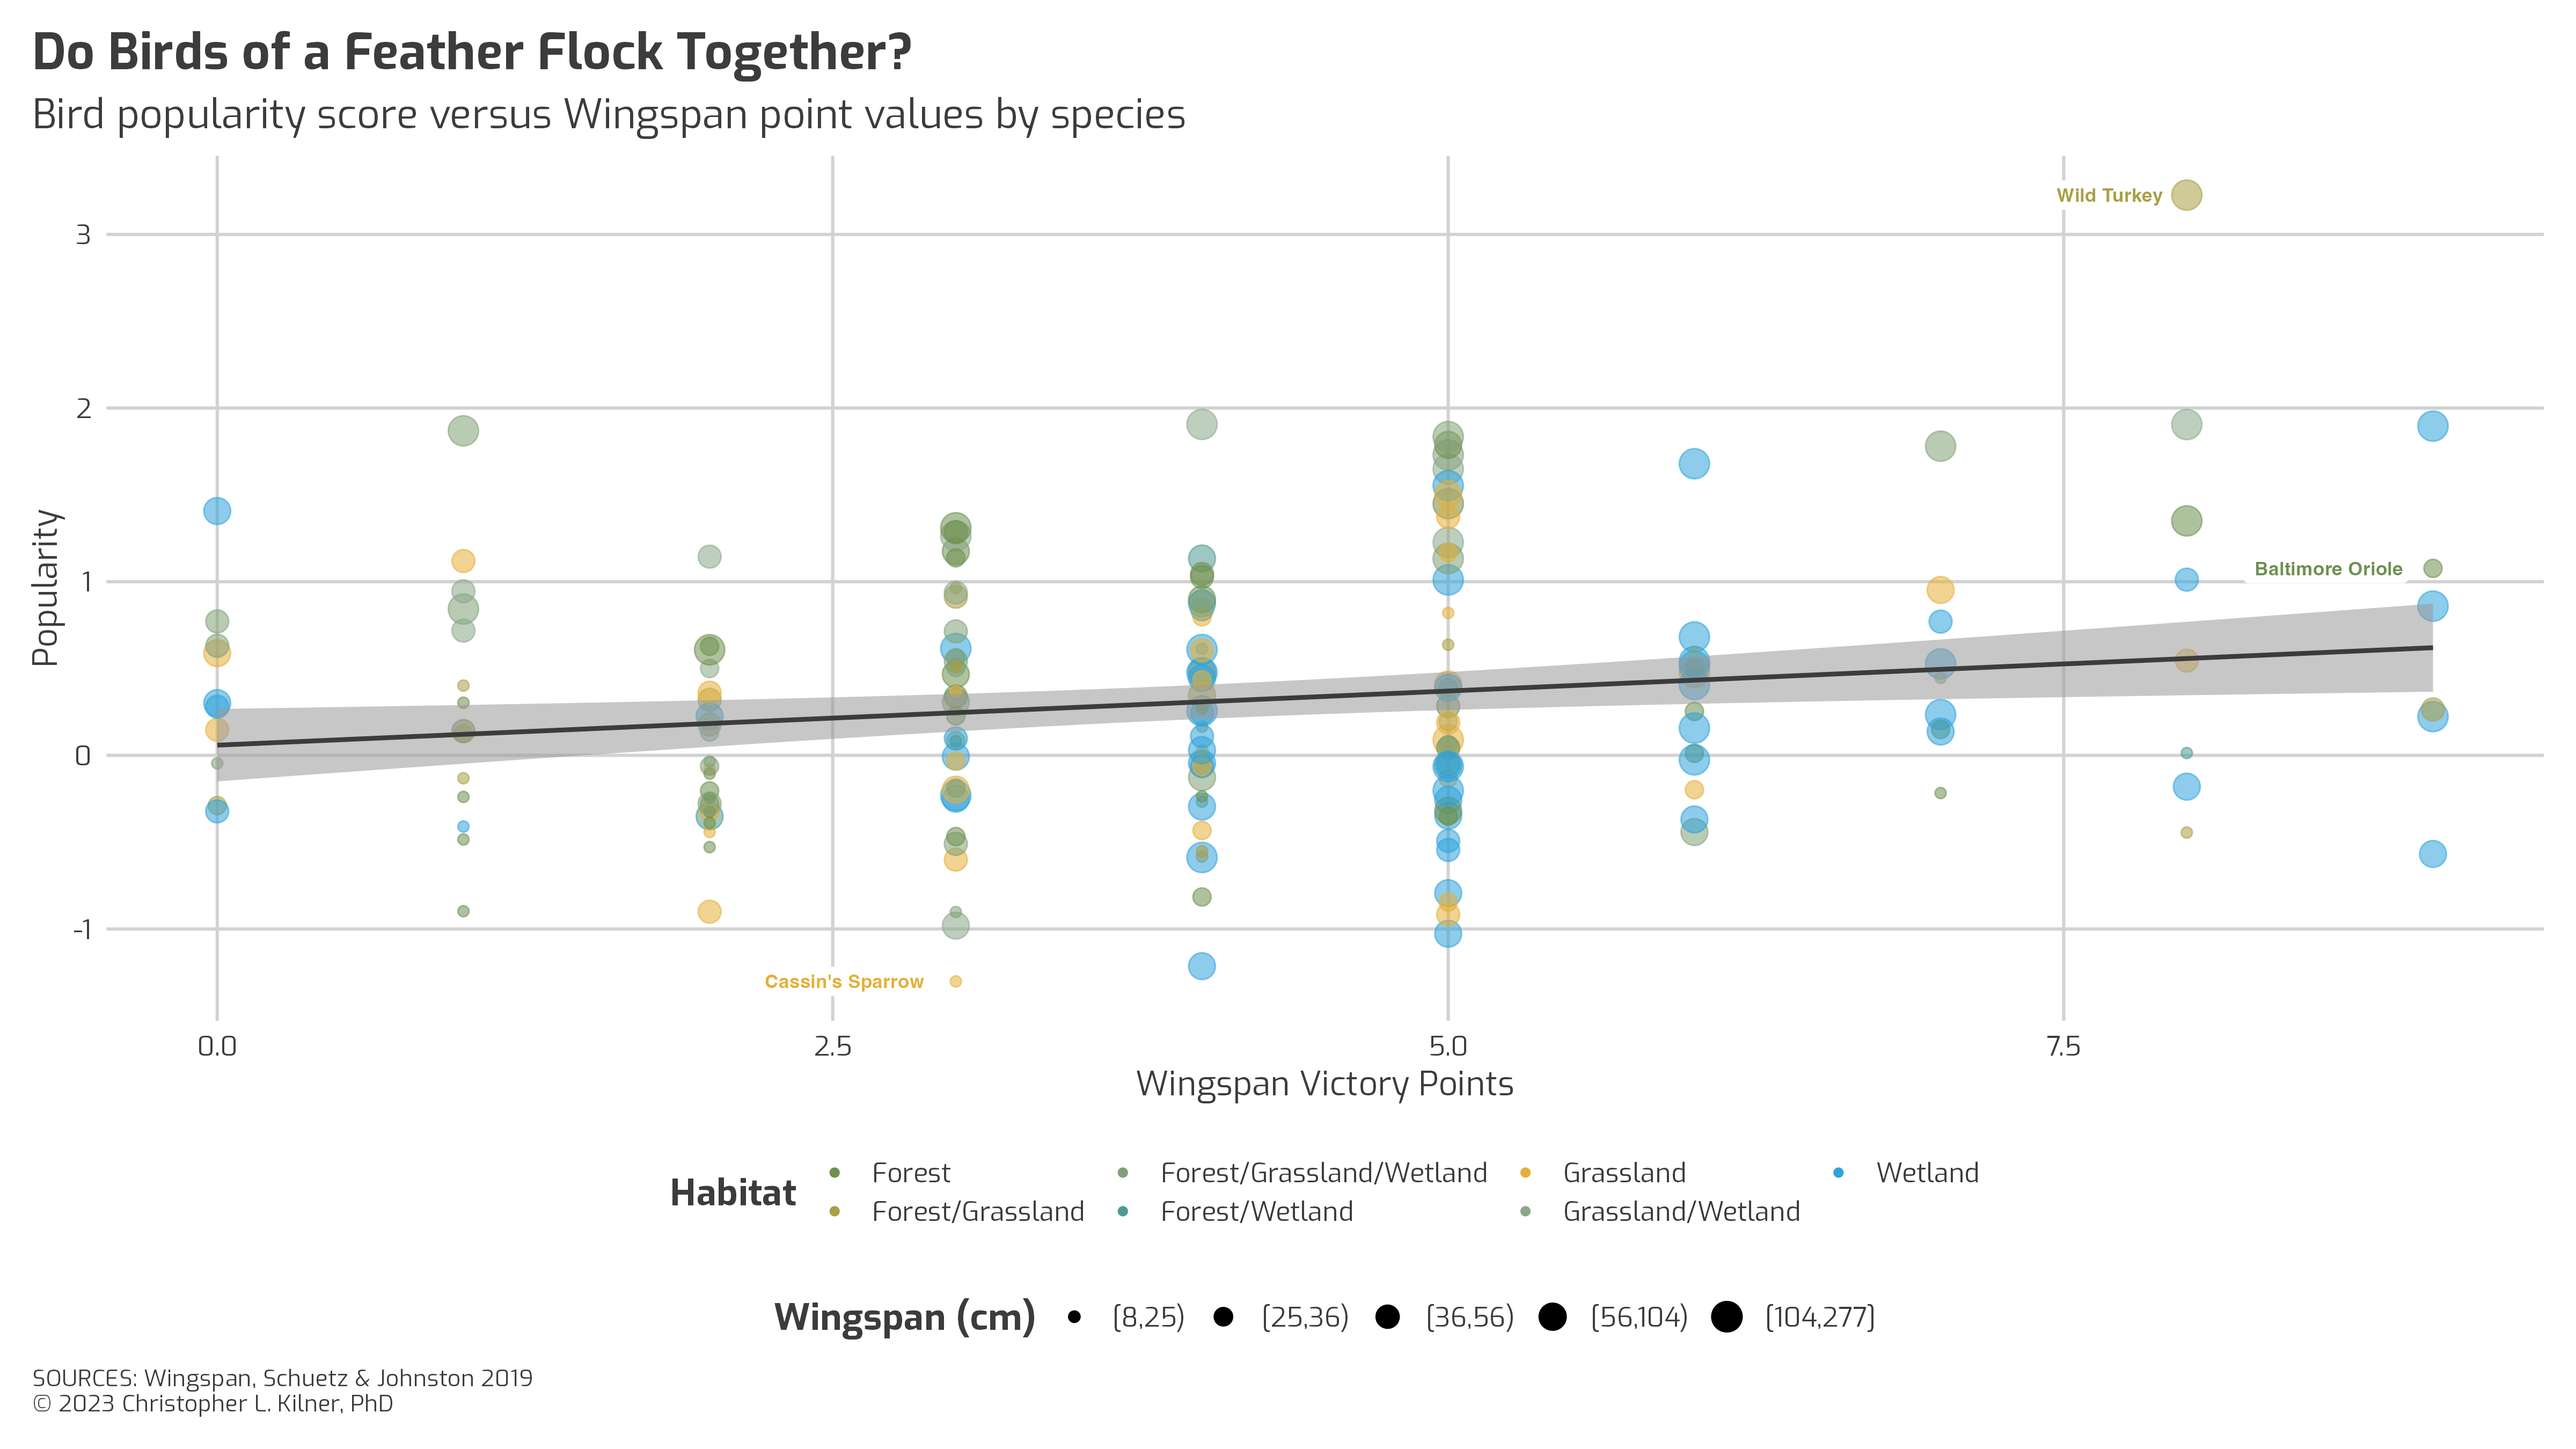
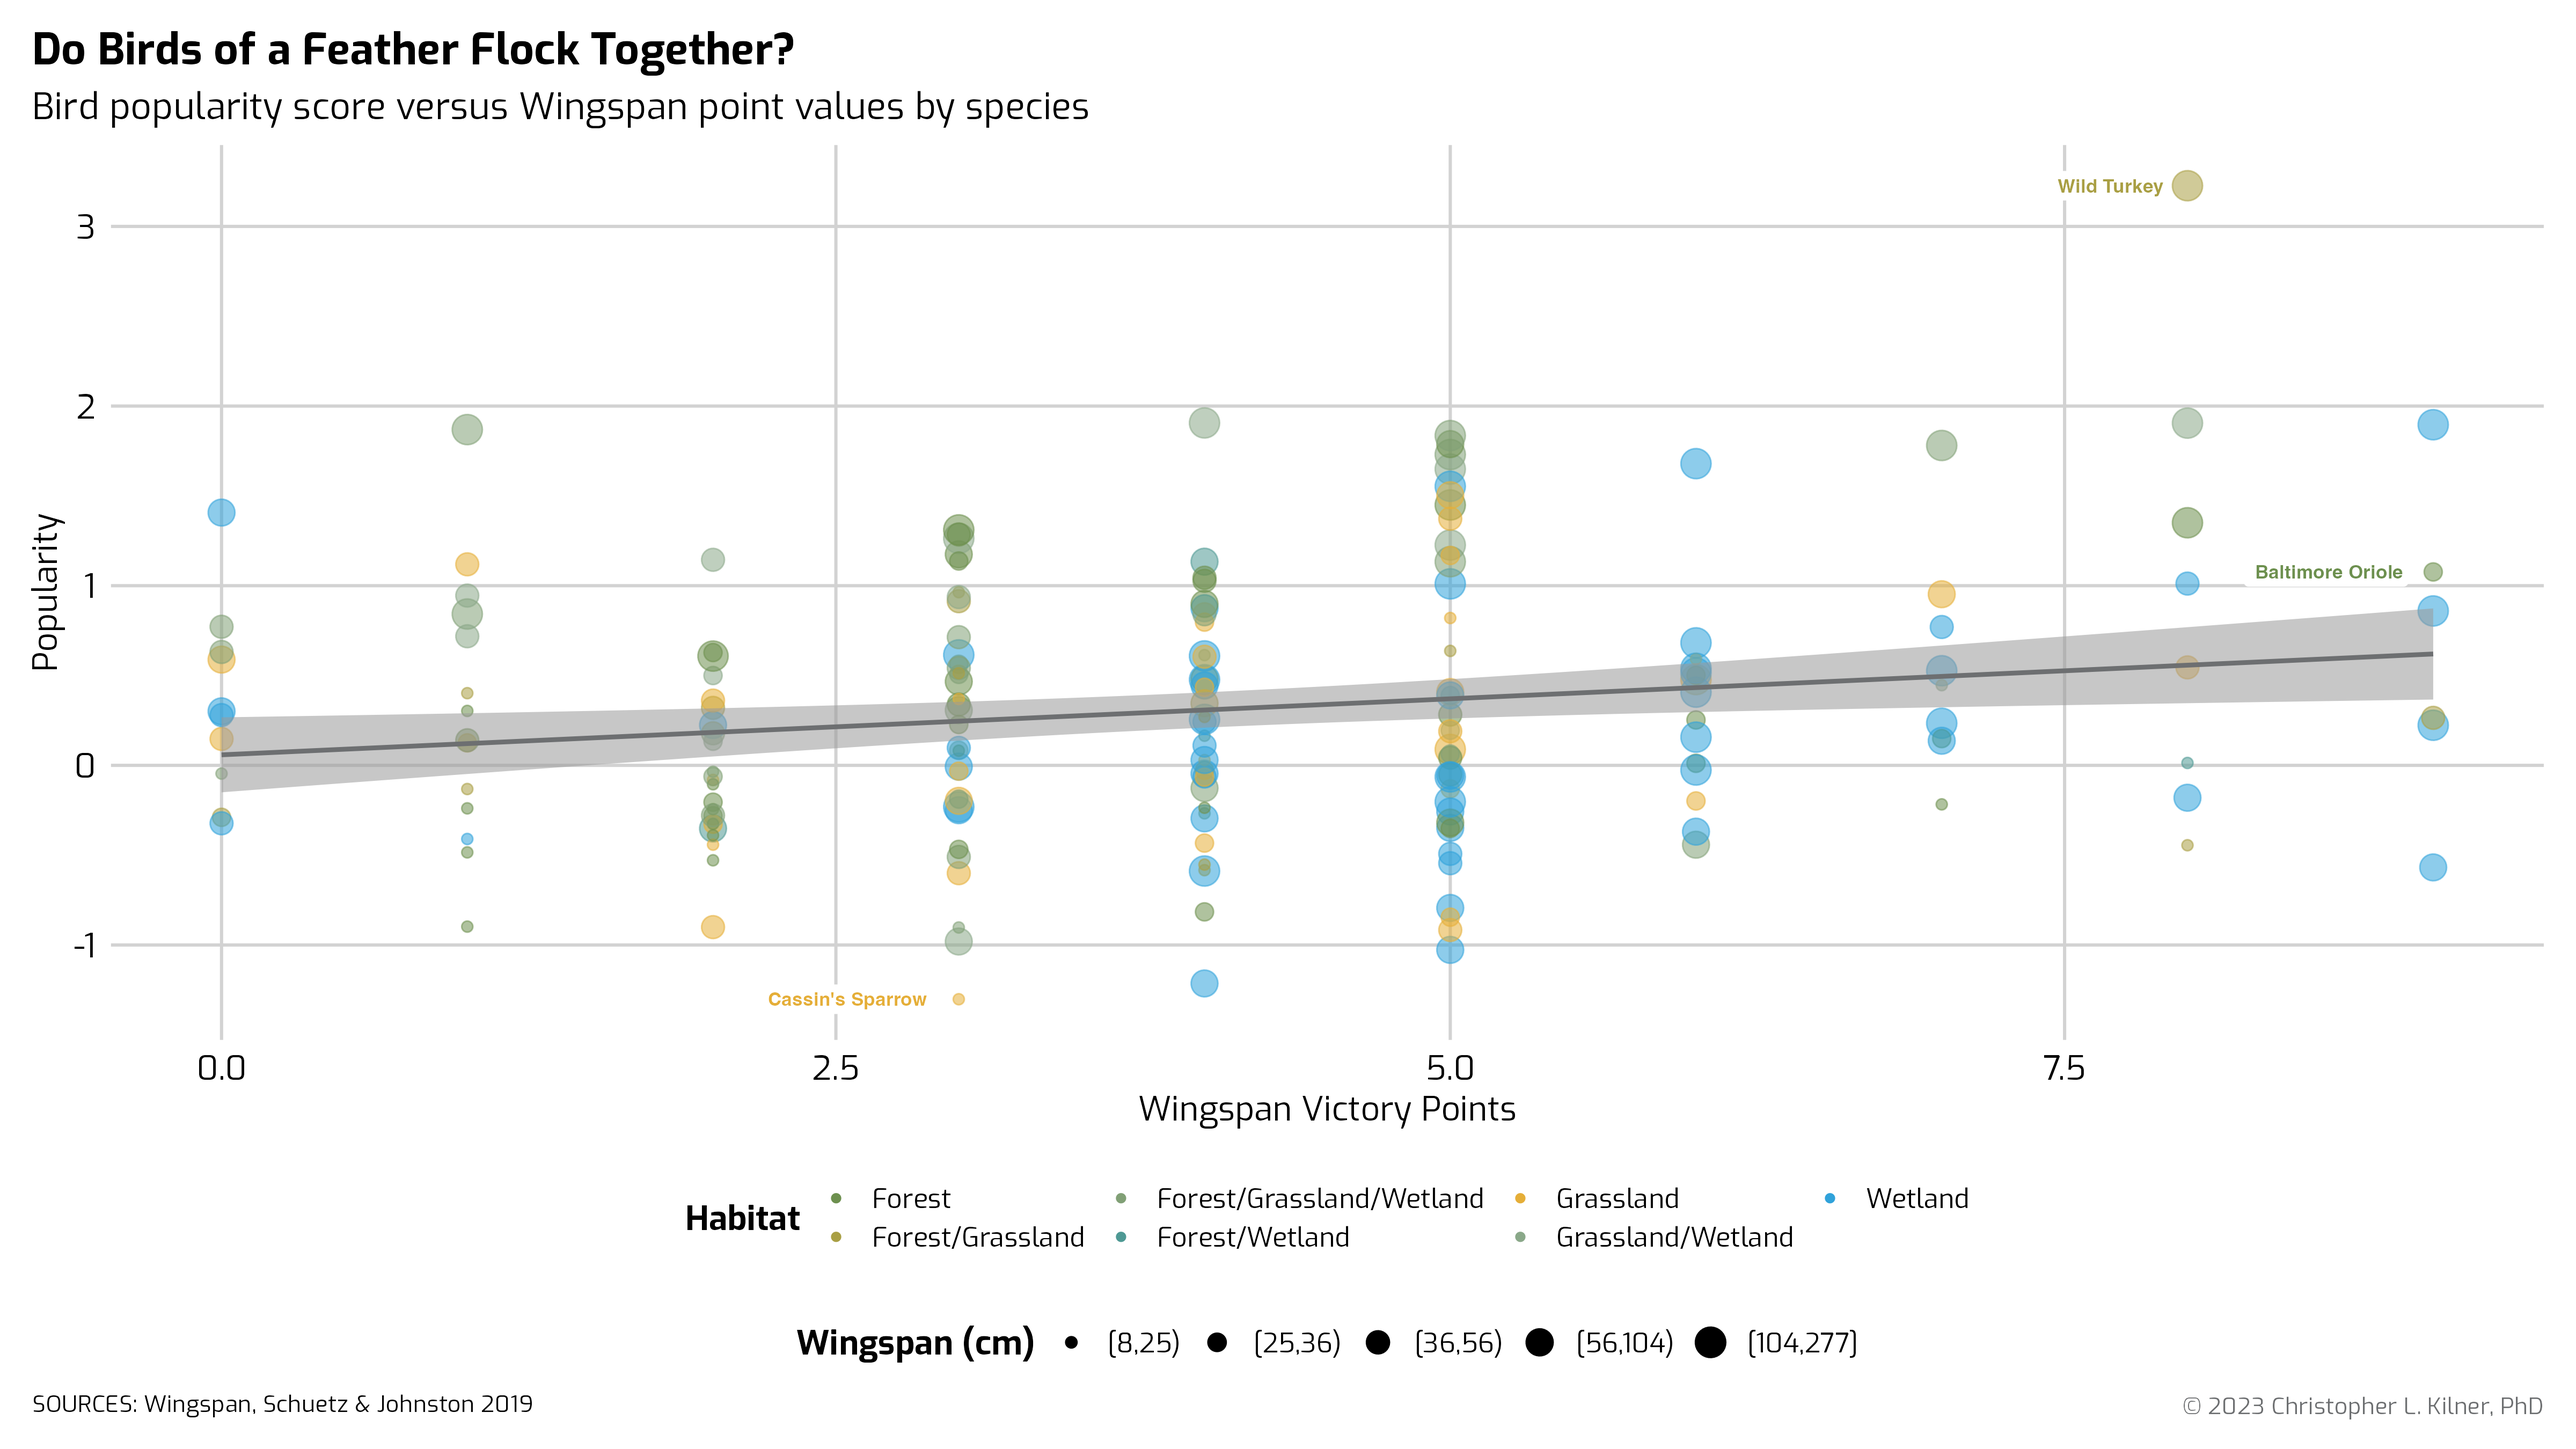
Updated theme to include Tag for copyright, and adjust font sizes

diff --git a/README.md b/README.md
@@ -20,16 +20,6 @@ devtools::install_github("ClassicCK/themeBCR")
 
 ## Example
 
-This is a basic example which shows you how to solve a common problem:
-
-    #> Warning: Vectorized input to `element_text()` is not officially supported.
-    #> ℹ Results may be unexpected or may change in future versions of ggplot2.
-    #> `geom_smooth()` using formula = 'y ~ x'
-    #> Warning: The `guide` argument in `scale_*()` cannot be `FALSE`. This was deprecated in
-    #> ggplot2 3.3.4.
-    #> ℹ Please use "none" instead.
-    #> This warning is displayed once every 8 hours.
-    #> Call `lifecycle::last_lifecycle_warnings()` to see where this warning was
-    #> generated.
+### Wingspan
 
 ![](wingspan_example.png)
